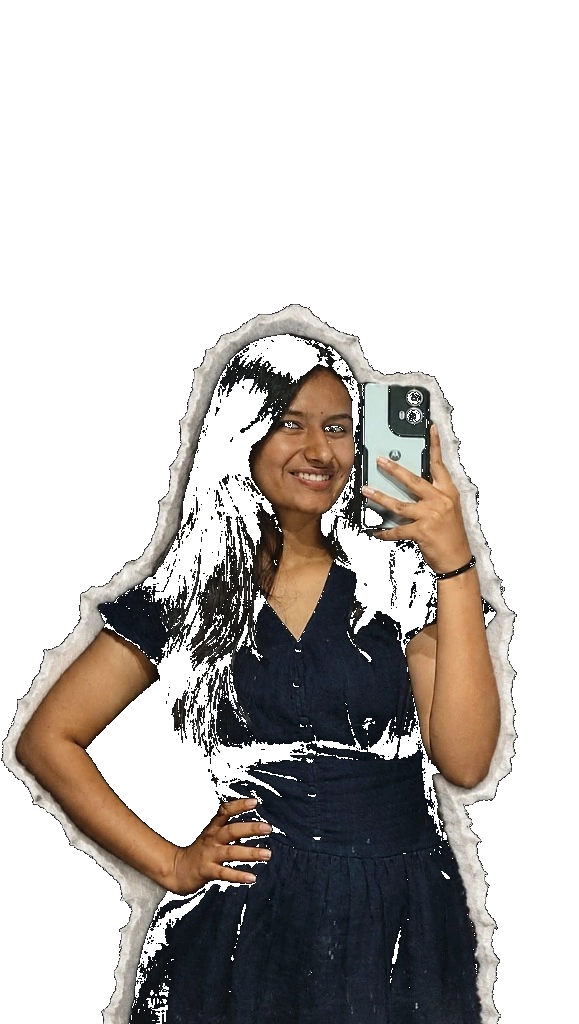
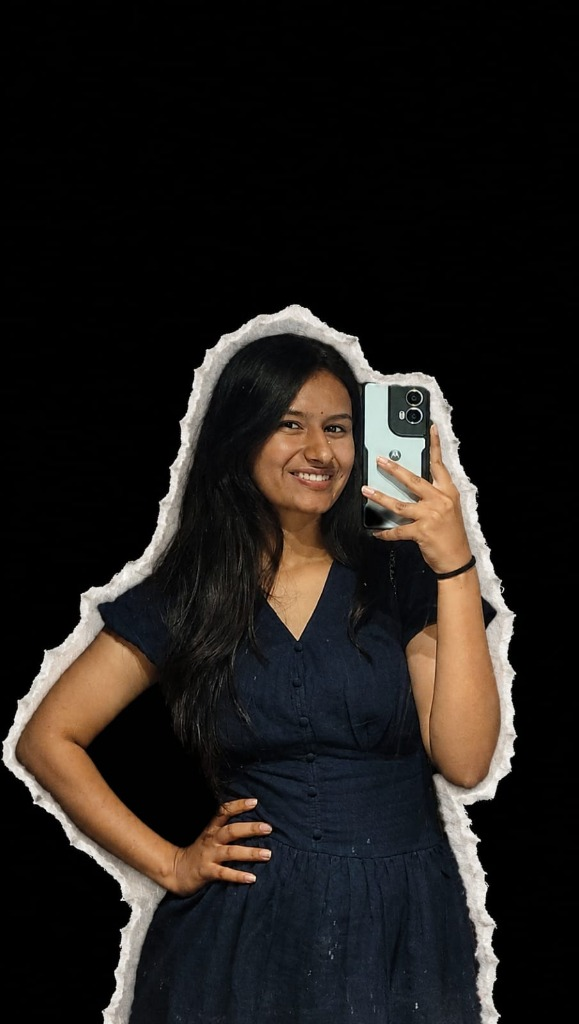
fix: restore Dhriti original uploaded photo with white torn paper frame without pixel thresholding

diff --git a/src/App.tsx b/src/App.tsx
@@ -892,8 +892,9 @@ function Hero() {
               decoding="async"
               fetchPriority="high"
               style={{
-                width: '100%', height: '100%', objectFit: 'cover', objectPosition: 'top',
-                filter: 'drop-shadow(0 15px 30px rgba(0,0,0,0.25))',
+                width: '100%', height: '100%', objectFit: 'cover', objectPosition: 'center 15%',
+                filter: 'drop-shadow(0 15px 30px rgba(0,0,0,0.35))',
+                borderRadius: '24px',
               }}
             />
 
